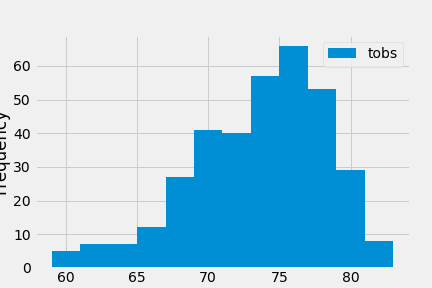
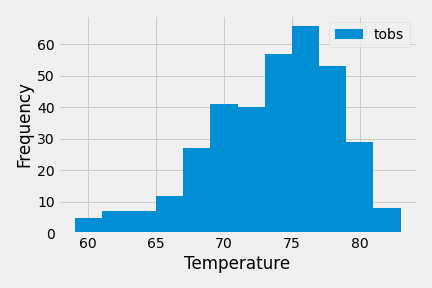
fixed histogram layout so entire image appears

Changed region(s): [[0.0, 0.0625, 0.963, 1.0], [0.0301, 0.9062, 0.0903, 0.9375]]

diff --git a/README.md b/README.md
@@ -12,7 +12,7 @@ Dataframe Describe
 
 Histogram
 
-![Histogram](https://user-images.githubusercontent.com/69160361/99486665-dc343280-2921-11eb-8646-6f4338b7c126.png)
+![Histogram](https://user-images.githubusercontent.com/69160361/99486930-6e3c3b00-2922-11eb-86a5-d987359a876b.png)
 
 Trip Temp Average
 
